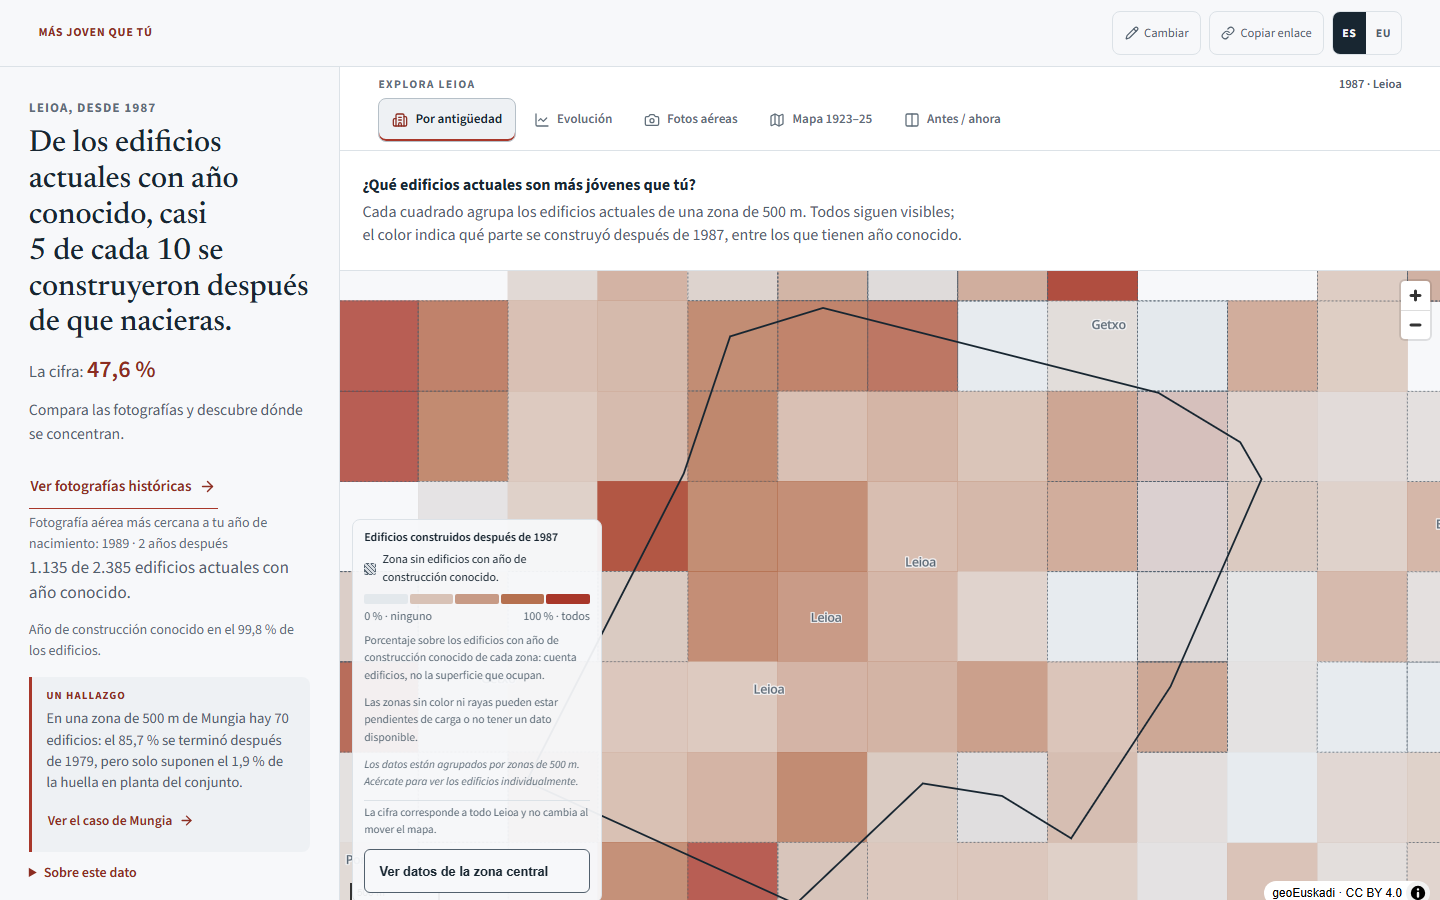
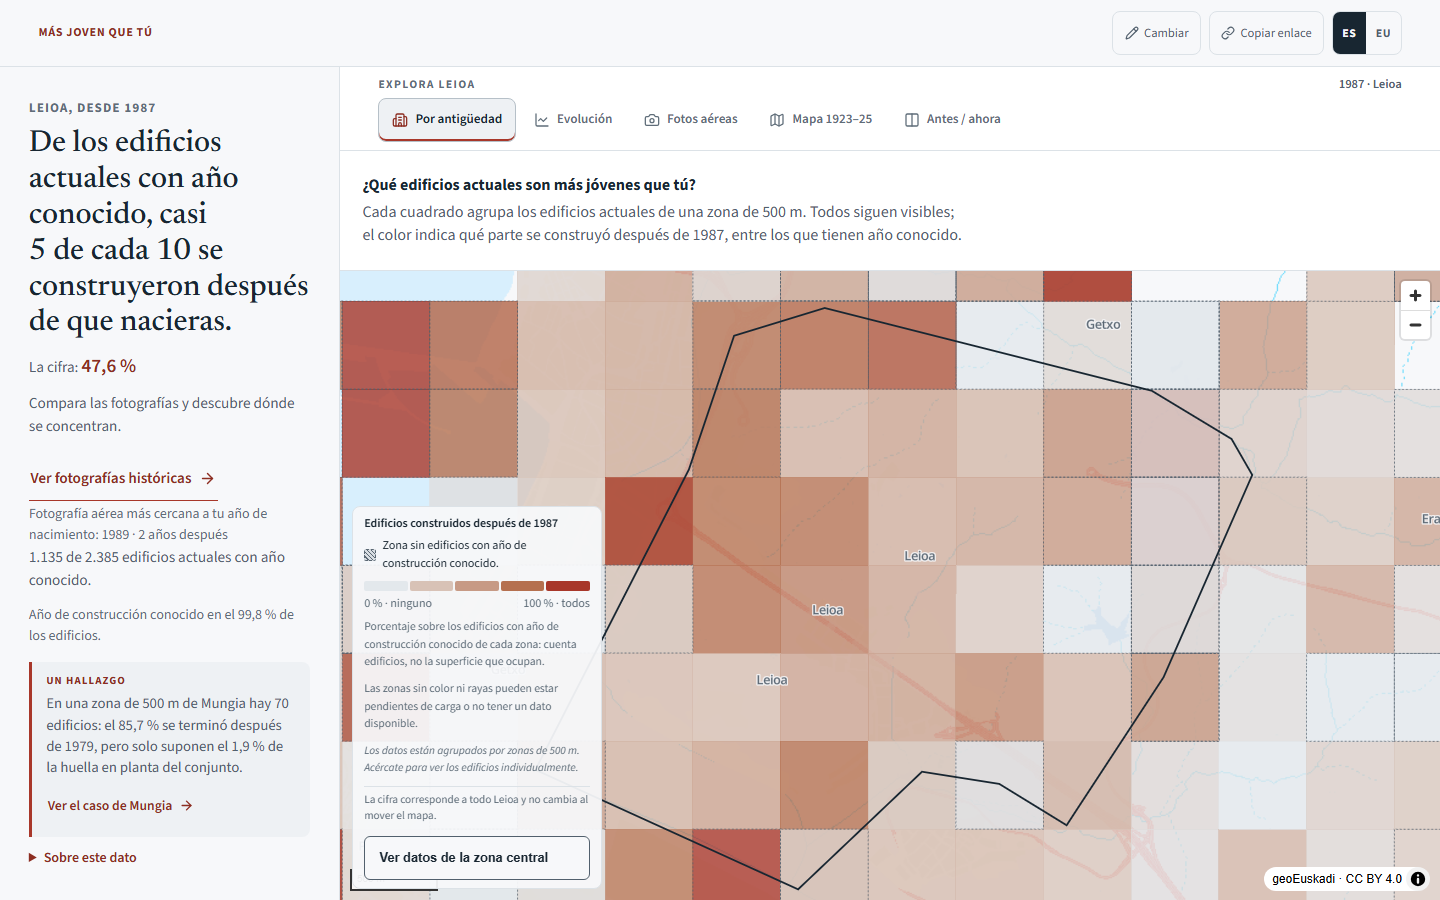
fix(ui): recuperar edificios al reentrar y facilitar la comparación

diff --git a/app/src/lib/map/MapView.svelte b/app/src/lib/map/MapView.svelte
@@ -287,8 +287,8 @@
   }
 
   function ensureBuildingSource(cod: number) {
-    if (!map || app.loadedBuildingSources.has(cod)) return;
     const src = `b-${cod}`;
+    if (!map || map.getSource(src)) return;
     const tiles = `pmtiles://${import.meta.env.BASE_URL}data/buildings/${String(cod).padStart(3, '0')}.pmtiles`;
     try {
       map.addSource(src, { type: 'vector', url: tiles, promoteId: 'id' });
@@ -971,6 +971,26 @@
       setVis(`${src}-noyear`, !hide);
       // contorno opt-in sobre la imagen; en vista de datos siempre visible
       setVis(`${src}-line`, !hide || app.overlayBuildings);
+      if (map.getLayer(`${src}-line`)) {
+        map.setPaintProperty(
+          `${src}-line`,
+          'line-width',
+          hide ? 1.6 : ['case', ['!=', ['get', 'state'], 'VALID'], 1, 0.4]
+        );
+        map.setPaintProperty(
+          `${src}-line`,
+          'line-color',
+          hide
+            ? '#ffffff'
+            : [
+                'case',
+                ['!=', ['get', 'state'], 'VALID'],
+                COLORS.noyearStroke,
+                'rgba(255,255,255,0.6)'
+              ]
+        );
+        map.setPaintProperty(`${src}-line`, 'line-dasharray', hide ? [1, 0] : [2, 2]);
+      }
       setVis(`${src}-hl`, !hide || app.overlayBuildings);
       setVis(`${src}-sel`, !hide || app.overlayBuildings);
       if (raster && app.overlayBuildings) {
@@ -1636,6 +1656,7 @@
   });
 
   onDestroy(() => {
+    app.loadedBuildingSources = new Set();
     mapSync.main = null;
     app.mapFlyTo = null;
     map?.remove();

diff --git a/app/src/lib/i18n/es.ts b/app/src/lib/i18n/es.ts
@@ -21,7 +21,7 @@ export const es: Record<string, string> = {
   'hero.placeholder.place': 'Getxo',
   'hero.cta': 'Descubrir mi Bizkaia',
   // entrada opcional sin formulario: abre el capítulo destacado (f4036)
-  'hero.example': 'O ver un ejemplo: el caso de Mungia',
+  'hero.example': 'Leer un ejemplo: el caso de Mungia',
   'hero.privacy':
     'Solo usamos el año. No guardamos tu fecha de nacimiento, tu nombre ni tu correo.',
   'hero.sources':
@@ -333,6 +333,7 @@ export const es: Record<string, string> = {
   'layers.label': 'Capas del mapa',
   'layers.ortho': 'Fotografía aérea',
   'layers.buildings': 'Contorno de los edificios actuales',
+  'layers.buildings_hint': 'Los contornos se ven al acercarte a los edificios.',
   'photo.label': 'Fotografía aérea oficial sobre la misma vista del mapa',
   'photo.prev': 'Campaña anterior: {year}',
   'photo.next': 'Campaña siguiente: {year}',
@@ -378,6 +379,7 @@ export const es: Record<string, string> = {
   'swipe.presets': 'Posiciones de la cortina',
   'swipe.only_before': 'Solo {year}',
   'swipe.only_after': 'Solo {year}',
+  'swipe.both': 'Ver ambas',
   'swipe.slider': 'Cortina de comparación: {before_year} a la izquierda, {after_year} a la derecha',
   // G16: las dos imágenes son elegibles (IGN «Fond 1 / Fond 2»); ambas
   // son campañas del catálogo y nunca pueden ser la misma fecha.

diff --git a/app/src/lib/i18n/eu.ts b/app/src/lib/i18n/eu.ts
@@ -36,7 +36,7 @@ export const eu: Record<string, string> = {
   'hero.placeholder.year': '1988',
   'hero.placeholder.place': 'Getxo',
   'hero.cta': 'Ezagutu nire Bizkaia',
-  'hero.example': 'Edo ikusi adibide bat: Mungiako kasua',
+  'hero.example': 'Irakurri adibide bat: Mungiako kasua',
   'hero.privacy':
     'Urtea bakarrik erabiltzen dugu. Ez dugu zure jaiotze-data, izena edo helbide elektronikoa gordetzen.',
   'hero.sources':
@@ -309,6 +309,7 @@ export const eu: Record<string, string> = {
   'layers.label': 'Mapa-geruzak',
   'layers.ortho': 'Aireko ortoargazkia',
   'layers.buildings': 'Egungo eraikinen konturrua',
+  'layers.buildings_hint': 'Eraikinetara hurbiltzean ikusten dira konturrak.',
   'photo.label': 'Mapa-ikuspegi beraren gainean dagoen aireko argazki ofiziala',
   'photo.prev': 'Aurreko kanpaina: {year}',
   'photo.next': 'Hurrengo kanpaina: {year}',
@@ -343,6 +344,7 @@ export const eu: Record<string, string> = {
   'swipe.presets': 'Bereizlearen posizioak',
   'swipe.only_before': '{year} bakarrik',
   'swipe.only_after': '{year} bakarrik',
+  'swipe.both': 'Biak ikusi',
   'swipe.slider': 'Konparazio-bereizlea: {before_year} ezkerrean, {after_year} eskuinean',
   'swipe.pick.a11y': 'Aukeratu konparatzen diren bi aire-irudiak',
   'swipe.pick.first': 'Lehen irudia',

diff --git a/app/src/lib/map/SwipeCompare.svelte b/app/src/lib/map/SwipeCompare.svelte
@@ -294,7 +294,7 @@
         aria-valuemax={100}
         aria-valuenow={Math.round(pct)}
         aria-orientation="horizontal"
-        style:left="{pct}%"
+        style:left="clamp(22px, {pct}%, calc(100% - 22px))"
         onpointerdown={onPointerDown}
         onpointermove={onPointerMove}
         onpointerup={() => (dragging = false)}
@@ -309,6 +309,9 @@
            falló el extremo muestra el mapa de respaldo y lo dice — no
            promete una imagen inexistente. -->
       <div class="presets" role="group" aria-label={t('swipe.presets')}>
+        <button type="button" onclick={() => (pct = 50)}>
+          {t('swipe.both')}
+        </button>
         <button type="button" onclick={() => (pct = 100)}>
           {t('swipe.only_before', { year: before.year })}
         </button>

diff --git a/app/src/lib/components/ResultView.svelte b/app/src/lib/components/ResultView.svelte
@@ -1190,18 +1190,18 @@
   /* cifra de apoyo: la proporción exacta, sin protagonismo */
   .support {
     margin: 0 0 0.7rem;
-    font-size: 1.05rem;
+    font-size: 0.95rem;
     font-variant-numeric: tabular-nums;
     color: var(--ink-2);
   }
   .support strong {
-    font-size: 1.5rem;
+    font-size: 1.2rem;
     color: var(--accent-deep);
     font-weight: 600;
   }
   .invite {
     margin: 0 0 0.2rem;
-    font-size: 0.98rem;
+    font-size: 0.95rem;
     color: var(--ink-2);
     max-width: 52ch;
   }
@@ -1222,7 +1222,7 @@
     max-width: 68ch;
   }
   .lead2 {
-    font-size: 1.08rem;
+    font-size: 0.95rem;
     margin: 0 0 0.3rem;
     color: var(--ink-2);
     max-width: 62ch;

diff --git a/app/src/lib/components/LayerToggles.svelte b/app/src/lib/components/LayerToggles.svelte
@@ -44,10 +44,19 @@
       <input type="checkbox" data-action="overlay" bind:checked={app.overlayBuildings} />
       {t('layers.buildings')}
     </label>
+    {#if app.overlayBuildings}
+      <p class="layer-hint" role="status">{t('layers.buildings_hint')}</p>
+    {/if}
   </div>
 </details>
 
 <style>
+  .layer-hint {
+    max-width: 24ch;
+    margin: 0.4rem 0;
+    font-size: 0.875rem;
+    color: var(--ink-2);
+  }
   .layerbox {
     position: absolute;
     /* bajo el grupo de zoom de MapLibre (top-right, ~98px) — familia

diff --git a/app/src/lib/components/StoryChapter.svelte b/app/src/lib/components/StoryChapter.svelte
@@ -215,9 +215,10 @@
   .scontrast .num {
     font-variant-numeric: tabular-nums;
     font-weight: 700;
-    font-size: clamp(1.5rem, 3vw, 2rem);
+    font-size: 1.35rem;
     color: var(--accent-deep);
     min-width: 5.5rem;
+    white-space: nowrap;
   }
   .scontrast .txt {
     font-size: 0.95rem;

diff --git a/evidence/interaction-review-20260928/REVIEW.md b/evidence/interaction-review-20260928/REVIEW.md
@@ -1,0 +1,50 @@
+# Revisión de incidencias de interacción — 28-09-2026
+
+Origen reproducido: producción 2920278. Correcciones probadas inicialmente en
+build local ebd93a6+dirty(9), sin cambiar datos ni algoritmos de métricas.
+
+## Recorrido y resultados
+
+1. Entrada desde portada: abre y enfoca intencionadamente el capítulo.
+   `01-example-before.png`. Se aclara el botón: «Leer un ejemplo: el caso de
+   Mungia», no se promete abrir fotos ni se realizan peticiones aéreas por leer.
+2. Porcentajes y texto: `02-story-before.png` → `08-story-after.png`.
+   Los porcentajes de contraste pasan de hasta 32 px a 21,6 px; se evita partir
+   número y símbolo. Texto de apoyo lateral 0,95 rem y cifra 1,2 rem. Se conserva
+   la jerarquía serif (titular) / sans (datos y controles), no cinco fuentes distintas.
+3. Comparador: «Solo 2025» significa mostrar solo esa imagen y deja la cortina
+   en 0 %, pero ahora el tirador completo de 44 px permanece dentro del lienzo.
+   «Ver ambas» recupera 50 %. Comprobado por DOM y visualmente en escritorio y
+   390×844: `06-swipe-edge-after.png`, `10-mobile-swipe-after.png`.
+   `03-swipe-edge-before.png` es una captura transitoria y no se usa como prueba
+   del porcentaje final del control.
+4. Contornos: fuente de datos actual, zoom mínimo 13,5; el toggle no cambia el
+   zoom. Se refuerza la línea sobre imágenes y se explica acercarse. Comprobado
+   activado en foto 2025, `07-outline-after.png`; no se afirma que los edificios
+   existieran en la fecha histórica de la imagen.
+5. Cambio entre pestañas: la primera secuencia no produjo un mapa vacío
+   (`04-evolution-after-tabs-before.png`). El fallo sí se reprodujo saliendo a
+   portada y reabriendo ejemplo: `05-map-reentry-before.png`, sin edificios.
+   Causa: `loadedBuildingSources` global sobrevivía al mapa destruido e impedía
+   crear fuentes en el nuevo mapa. La guarda consulta ahora la fuente del mapa
+   real y el inventario se limpia al destruirlo. `09-map-after.png` y prueba de
+   regresión que exige geometría realmente renderizada en ambas entradas.
+6. Nombre de GitHub: guion final real, no fallo de la interfaz. Renombrarlo
+   implica migrar URL pública/enlaces; decisión solicitada aparte, no ejecutada.
+
+## Comprobaciones realizadas
+
+- `npm run check`: 0 errores, 2 avisos preexistentes.
+- `npm run test`: 279 Vitest + 17 Node PASS.
+- ESLint archivos tocados: exit 0. Prettier aplicado.
+- Build: exit 0. Prefijo Pages: 14/14.
+- Harness editorial mantenido: 25/25. Nuevos asertos: edificios renderizados
+  en ciclo1/ciclo2; Play avanza tras Fotos → Histórico → Antigüedad → Evolución;
+  Antigüedad recupera visibilidad/geometría y pausa Play al volver.
+- Capturas del navegador de esta ronda; no se reutilizan las del paquete anterior.
+
+## Límites
+
+Revisión visual acotada, no certificación WCAG ni prueba con iPhone físico.
+EU asistido con paridad, revisión nativa pendiente. La demo y PDF anteriores
+conservan sus capturas históricas; no se reetiquetan como prueba de esta build.

diff --git a/docs/UX_COPY.md b/docs/UX_COPY.md
@@ -3,6 +3,14 @@
 > Este documento es canónico: el copy del producto sale de aquí.
 > No hay lorem ipsum. Toda frase respeta `DATA_SEMANTICS.md`.
 
+### Correcciones de interacción del 28-09-2026
+
+- `hero.example`: «Leer un ejemplo: el caso de Mungia». La acción abre lectura,
+  no fotos; las acciones del capítulo permiten ir al mapa o al aire.
+- `swipe.both`: «Ver ambas»; restablece la cortina al centro.
+- `layers.buildings_hint`: «Los contornos se ven al acercarte a los edificios.»
+- EU mantiene paridad para estas claves; revisión nativa todavía pendiente.
+
 ### Ajuste editorial final (27-09-2026)
 
 Actualización 28-09: `hero.title` EU = «Zu baino gazteagoa»;
@@ -307,7 +315,7 @@ Reglas de interfaz para esa traducción:
 | `hero.label.year`  | Año de nacimiento                                                                                                                | —                                          |
 | `hero.label.place` | Municipio (G11)                                                                                                                  | —                                          |
 | `hero.cta`         | Descubrir mi Bizkaia (G11)                                                                                                       | habilitado con año válido y lugar resuelto |
-| `hero.example`     | O ver un ejemplo: el caso de Mungia (etapa editorial — acceso opcional sin formulario; abre el capítulo `f4036` con la misma escena que `?story=f4036`; si no hay estado personal, «Volver» regresa a la portada) | siempre visible |
+| `hero.example`     | Leer un ejemplo: el caso de Mungia (acceso opcional sin formulario; abre el capítulo `f4036` con la misma escena que `?story=f4036`; si no hay estado personal, «Volver» regresa a la portada) | siempre visible |
 | `hero.privacy`     | Solo usamos el año. No guardamos tu fecha de nacimiento, tu nombre ni tu correo.                                                 | siempre visible                            |
 | `hero.sources`     | Datos oficiales: Catastro de Bizkaia, ortofotos y cartografía histórica · Open Data Bizkaia · geoEuskadi · Eustat.               | —                                          |
 | `hero.contest`     | Una pieza construida solo con datos públicos oficiales                                                                           | —                                          |
@@ -925,7 +933,7 @@ Sección: `Cinco lugares de Bizkaia` — intro:
 > Cada capítulo configura el mapa para verlo; tu año y tu lugar se conservan aparte.
 
 Entrada: `Descúbreme un cambio` (abre el primer capítulo del orden congelado)
-y, desde la portada, «O ver un ejemplo: el caso de Mungia» (`hero.example`,
+y, desde la portada, «Leer un ejemplo: el caso de Mungia» (`hero.example`,
 abre `f4036` directamente).
 Bloques por capítulo: `Qué vemos` · `El dato` · `En síntesis` ·
 `Qué sabemos y qué no sabemos` — pregunta → evidencia → conclusión → límite;

diff --git a/docs/PRODUCT.md b/docs/PRODUCT.md
@@ -2,6 +2,21 @@
 
 > Documento canónico de producto. Se actualiza **junto con** `docs/UX_COPY.md`.
 
+### Correcciones de interacción del 28-09-2026
+
+- La caché de fuentes de edificios pertenece al mapa vivo: reabrir el resultado
+  desde portada vuelve a cargar geometrías. Se prueba segunda entrada y retorno
+  a Antigüedad después de Fotos, Histórico y Evolución.
+- La entrada editorial se llama «Leer un ejemplo: el caso de Mungia»; lleva
+  intencionadamente al capítulo. Sus acciones «Ver en el mapa» y «Míralo desde
+  el aire» llevan al visor, sin descargar ortofotos por una entrada de lectura.
+- Porcentajes de capítulos a 1,35 rem y textos secundarios laterales unificados;
+  se conserva serif para el titular y sans para controles/datos.
+- El tirador conserva 44 px accesibles dentro del comparador incluso en 0/100 %;
+  «Ver ambas» restablece el 50 %. No cambia las campañas ni la cámara.
+- Contornos sobre raster más visibles, con aviso de que requieren acercarse;
+  siguen siendo edificios actuales, no reconstrucción del parque histórico.
+
 ## 1. Modelo de estado (la pieza congelada)
 ### Ajuste editorial final (27-09-2026)
 
@@ -173,7 +188,7 @@ lectura y en `/como-lo-sabemos`.
   Mungia **abre** el índice y es el destino del hallazgo que se muestra
   en el panel de resultado; «Descúbreme un cambio» abre el primero,
   «Otro» rota cíclicamente, sin aleatoriedad).
-- Entrada opcional desde la portada: «O ver un ejemplo: el caso de Mungia»
+- Entrada opcional desde la portada: «Leer un ejemplo: el caso de Mungia»
   (`hero.example`, etapa editorial) abre el capítulo `f4036` con la misma
   escena que el deep link `?story=f4036`, sin exigir el formulario. Si la
   sesión no tenía estado personal, «Volver» regresa a la portada.
